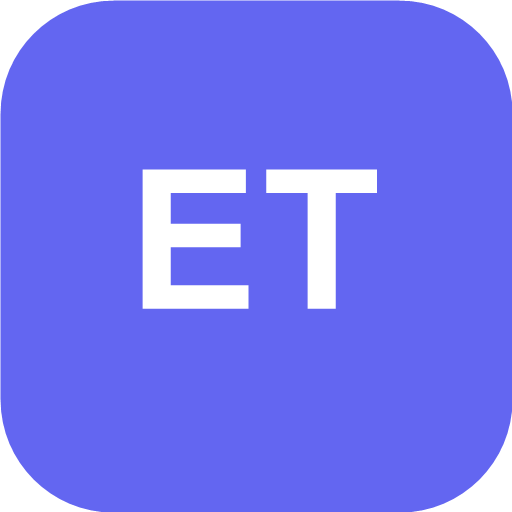
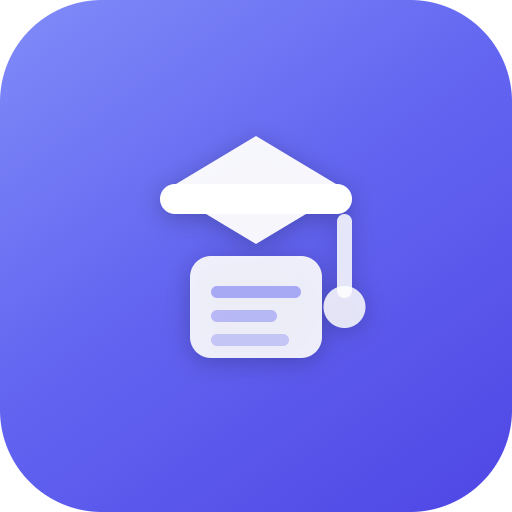
PWA complète : icônes générées + manifest + install prompt
- Génère icon-192.png, icon-512.png et apple-touch-icon.png (180px)
- manifest.json : icônes any+maskable, shortcuts Appel/Dashboard
- index/login/register/trainer.html : meta tags Apple PWA complets
- app.js : bouton "Installer l'app" via beforeinstallprompt
- sw.js v10 : icônes et manifest mis en cache

diff --git a/js/app.js b/js/app.js
@@ -202,9 +202,35 @@ class App {
             });
         });
 
-
+        // PWA Install
+        document.getElementById('pwa-install-btn')?.addEventListener('click', () => {
+            if (window._pwaInstallPrompt) {
+                window._pwaInstallPrompt.prompt();
+                window._pwaInstallPrompt.userChoice.then(choice => {
+                    if (choice.outcome === 'accepted') {
+                        ui.toast('EducTrack installé sur votre appareil !', 'success');
+                        document.getElementById('pwa-install-section').style.display = 'none';
+                    }
+                    window._pwaInstallPrompt = null;
+                });
+            }
+        });
     }
 }
+
+// PWA install prompt — intercept before browser handles it
+window.addEventListener('beforeinstallprompt', (e) => {
+    e.preventDefault();
+    window._pwaInstallPrompt = e;
+    const section = document.getElementById('pwa-install-section');
+    if (section) section.style.display = '';
+});
+
+window.addEventListener('appinstalled', () => {
+    window._pwaInstallPrompt = null;
+    const section = document.getElementById('pwa-install-section');
+    if (section) section.style.display = 'none';
+});
 
 // Start app
 new App();

diff --git a/index.html b/index.html
@@ -11,7 +11,7 @@
     <meta name="apple-mobile-web-app-capable" content="yes">
     <meta name="apple-mobile-web-app-status-bar-style" content="default">
     <meta name="apple-mobile-web-app-title" content="EducTrack">
-    <link rel="apple-touch-icon" href="/icons/icon-192.png">
+    <link rel="apple-touch-icon" href="/icons/apple-touch-icon.png">
 
     <!-- CSS -->
     <link rel="stylesheet" href="css/styles.css">
@@ -390,6 +390,25 @@
                             <a href="/register.html" class="btn btn-sm btn-secondary">
                                 <i class="ph ph-arrow-clockwise"></i> Renouveler l'abonnement
                             </a>
+                        </div>
+                    </div>
+                </div>
+
+                <!-- Installer l'application -->
+                <div class="settings-section" id="pwa-install-section" style="display:none">
+                    <div class="settings-section-header">
+                        <i class="ph ph-device-mobile"></i>
+                        <h2>Installer l'application</h2>
+                    </div>
+                    <div class="settings-section-body">
+                        <div class="settings-row">
+                            <div>
+                                <span class="settings-row-label">EducTrack sur votre écran d'accueil</span>
+                                <div style="font-size:.8rem;color:var(--text-tertiary);margin-top:2px">Accès rapide sans navigateur, fonctionne hors-ligne</div>
+                            </div>
+                            <button type="button" id="pwa-install-btn" class="btn btn-primary btn-sm">
+                                <i class="ph ph-download-simple"></i> Installer
+                            </button>
                         </div>
                     </div>
                 </div>

diff --git a/trainer.html b/trainer.html
@@ -4,6 +4,13 @@
     <meta charset="UTF-8">
     <meta name="viewport" content="width=device-width, initial-scale=1.0">
     <title>Espace Formateur — EducTrack</title>
+    <!-- PWA -->
+    <link rel="manifest" href="/manifest.json">
+    <meta name="theme-color" content="#6366F1">
+    <meta name="apple-mobile-web-app-capable" content="yes">
+    <meta name="apple-mobile-web-app-status-bar-style" content="default">
+    <meta name="apple-mobile-web-app-title" content="EducTrack">
+    <link rel="apple-touch-icon" href="/icons/apple-touch-icon.png">
     <link rel="stylesheet" href="css/styles.css">
     <link rel="stylesheet" href="css/components.css">
     <link rel="stylesheet" href="css/responsive.css">

diff --git a/login.html b/login.html
@@ -6,6 +6,10 @@
   <title>Connexion — EducTrack</title>
   <link rel="manifest" href="/manifest.json">
   <meta name="theme-color" content="#6366F1">
+  <meta name="apple-mobile-web-app-capable" content="yes">
+  <meta name="apple-mobile-web-app-status-bar-style" content="default">
+  <meta name="apple-mobile-web-app-title" content="EducTrack">
+  <link rel="apple-touch-icon" href="/icons/apple-touch-icon.png">
   <script src="https://unpkg.com/@phosphor-icons/web"></script>
   <style>
     *, *::before, *::after { box-sizing: border-box; margin: 0; padding: 0; }

diff --git a/register.html b/register.html
@@ -6,6 +6,10 @@
   <title>Inscription — EducTrack</title>
   <link rel="manifest" href="/manifest.json">
   <meta name="theme-color" content="#6366F1">
+  <meta name="apple-mobile-web-app-capable" content="yes">
+  <meta name="apple-mobile-web-app-status-bar-style" content="default">
+  <meta name="apple-mobile-web-app-title" content="EducTrack">
+  <link rel="apple-touch-icon" href="/icons/apple-touch-icon.png">
   <script src="https://unpkg.com/@phosphor-icons/web"></script>
   <style>
     *, *::before, *::after { box-sizing: border-box; margin: 0; padding: 0; }

diff --git a/sw.js b/sw.js
@@ -1,4 +1,4 @@
-const CACHE_NAME = 'eductrack-v9';
+const CACHE_NAME = 'eductrack-v10';
 const STATIC_ASSETS = [
   '/',
   '/index.html',
@@ -22,6 +22,8 @@ const STATIC_ASSETS = [
   '/js/app.js',
   '/icons/icon-192.png',
   '/icons/icon-512.png',
+  '/icons/apple-touch-icon.png',
+  '/manifest.json',
 ];
 
 self.addEventListener('install', event => {